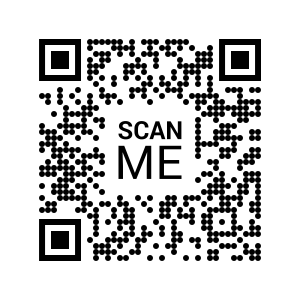
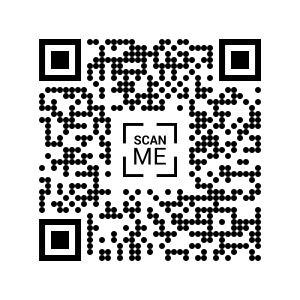
changed layout, linked qr to page

Changed region(s): [[0.12, 0.12, 0.87, 0.87]]

diff --git a/src/components/body/body.js b/src/components/body/body.js
@@ -2,24 +2,26 @@ import React,{ Component } from 'react';
 import './body.css'
 import qr from '../../images/frame.png';
 import msg from '../../images/messenger.PNG';
+import doctor from '../../images/doctor.png'
 
 class Body extends Component {
 	render () {
 		return (
 			<div>
-				<div className="someText">
-					<h2>Order NOW</h2>
-					<p>We use facebook messenger for our services</p>
-				</ div>
 				<div className="container">
-					<div className="cell left">
-						<p> Click on the messenger button on the bottom right</p>
-						<img src={msg} />
+					<div className="left">
+						<div className="bb">
+							<div className="max">Medeli is a one-stop solution for all your medicine needs</div> 
+							<li className="min">Get free-delivery of genuine medicines right at your doorstep</li> 
+							<li className="min">We have satisfied customers in more than 50 cities</li>
+						</ div>
+						<div className="max">Order Now</div>
+						<div className="med"> Click on the messenger button on the bottom right or scan qr code / click on the link below</div>
+		    			
 					</ div>
-					<div className="cell right">
-						<p>Scan the qr code below or click on the link below</p>
-	    				<img src={qr} />
-	    				<a href="http://m.me/Test-page-108266287590346">http:\/\/m.me/Test-page-108266287590346</a>
+					<div className="right">
+		    			<img src={qr} />
+		    			<a href="http://m.me/Developersforfb-relaxedcoder-104558897954522">http://m.me/Developersforfb-relaxedcoder-104558897954522</a>
 					</ div>
 				</ div>
 			</div>

diff --git a/src/db.js b/src/db.js
@@ -1,0 +1,51 @@
+const mongoose = require('mongoose');
+
+
+// uri for cloud mongoDB atlas database
+const uri = "mongodb+srv://khanna:honululu@cluster69-ddhsv.mongodb.net/Medeli?retryWrites=true&w=majority"
+
+// Connect to database
+mongoose.connect(uri,{
+	useNewUrlParser: true,
+	useUnifiedTopology: true
+});
+	
+//Schema
+const schema = mongoose.Schema;
+const MedicineSchema = new schema({
+	name: String,
+	expiry: Date,
+	manufacture: Date,
+	batch: String,
+	mrp: Number,
+	stock: Number
+})
+
+//Model
+const Medicine = mongoose.model('Medicine', MedicineSchema, 'Medicine');
+
+// query
+function checkStock(name){
+	var x = Medicine
+			.find({name:name},{
+				stock:1,
+				_id: 0
+			})
+			.exec();
+	return x;
+}
+
+function updateStock(name,qt){
+	Medicine
+    	.findOneAndUpdate({name:name}, {$inc : {'stock' : -qt}}, {new: true }).exec()
+}
+
+let q=checkStock('Honitus');
+
+let s=q.then((data)=>{
+	if(data[0]==undefined) {console.log("not in stock"); return 0;}
+	else{
+		if(data[0].stock>0) {updateStock('Honitus',10); console.log("updated stock"); return 1}
+		else {console.log("not in stock"); return 0}
+	}
+})

diff --git a/src/components/body/body.css b/src/components/body/body.css
@@ -3,26 +3,49 @@
 }
 
 .container{
-	display: flex;
+	display: grid;
+	grid-template-columns: 1.4fr .6fr;
+	grid-template-rows: 1fr 1fr;
 	justify-content: space-around;
-}
-
-.cell{
-	width: 50%;
-	/*padding: 5%;	*/
-	text-align: center;
-	/*padding-top: 5%;*/
-}
-
-.cell img{
-	display: block;
-	margin: auto;
+	padding:2em 5em;
+	background-image: linear-gradient(rgba(255,255,255,.1), rgba(255,255,255,.6)), url('../../images/medicine.jpg');
+	background-repeat: no-repeat;
+	background-size: contain;
 }
 
 .left{
-	border-right: 1px solid ;
+	/*width: 130%;*/
+	/*border-right: 1px solid ;*/
+	grid-column-start: 1;
+	grid-row-start:1;
+}
+
+.left img{
+	float:left;
+}
+
+.bb{
+	padding-bottom: 3em;
+	border-bottom: 1px solid black;
 }
 
 .right{
+	padding-left: 5em;
+}
 
+.img{
+
+	background: rgba(0, 0, 0, 0),
+}
+
+.max{
+	font-size: 4em;
+}
+
+.med{
+	font-size: 2em;
+}
+
+.min{
+	font-size: 2em;
 }

diff --git a/src/App.css b/src/App.css
@@ -1,38 +1,8 @@
 .App{
   /*background-color: #E5E5E5;*/
-  width: 100vw;
-  height: 100%;
+  width: 98vw;
+  height: 90%;
   /*padding: 0 10px;*/
 }
 
-nav{
-  width: 100vw;
-  height: 6vh;
-  /*background-color: #08C6EF;*/
-  border-bottom: 1px solid;
-  display: flex;
-  position: fixed;
-  justify-content: flex-end;
-  /*margin-right: 20px;*/
-}
-
-nav a {
-  display: block;
-  /*height: 6vh;*/
-  padding-right: 50px;
-  font-family: Arial, sans-serif;
-  font-size: 20px;
-  /*color: white;*/
-  align-self: center;
-  text-decoration: none;
-}
-
-/*nav a:hover {
-  background-color: #0b98de;
-}*/
-
-#name{
-  margin-right: auto;
-  padding-left: 50px; 
-}
 

diff --git a/src/App.js b/src/App.js
@@ -10,6 +10,8 @@ import MessengerCustomerChat from 'react-messenger-customer-chat';
 import Body from './components/body/body';
 import Header from './components/header/header';
 
+
+
 function App() {
   return (
     <div className="App">
@@ -18,8 +20,8 @@ function App() {
 
       
           <MessengerCustomerChat
-            pageId="108266287590346"
-            appId="943996966049788"
+            pageId="104558897954522"
+            appId="2636712953277947"
           />
     </div>
   );
@@ -27,3 +29,5 @@ function App() {
 
 
 export default App;
+
+

diff --git a/src/components/header/header.css b/src/components/header/header.css
@@ -1,6 +1,5 @@
 .header{
-	padding: 10px;
-	border-bottom: 1px solid;
+	/*padding:0 1em;*/
 }
 
 .center{
@@ -14,6 +13,10 @@
 .promoContainer{
 	display: flex;
 	justify-content: space-around;
+	background-color: orange;
+	/*border-bottom: 1px solid;*/
+	height: 2em;
+	padding-top: .2em;
 }
 
 .promo{

diff --git a/src/components/header/header.js b/src/components/header/header.js
@@ -1,6 +1,6 @@
 import React,{ Component } from 'react';
 import './header.css'
-import logo from '../../images/logo.PNG';
+import logo from '../../images/logo.png';
 
 class Header extends Component {
 	render () {
